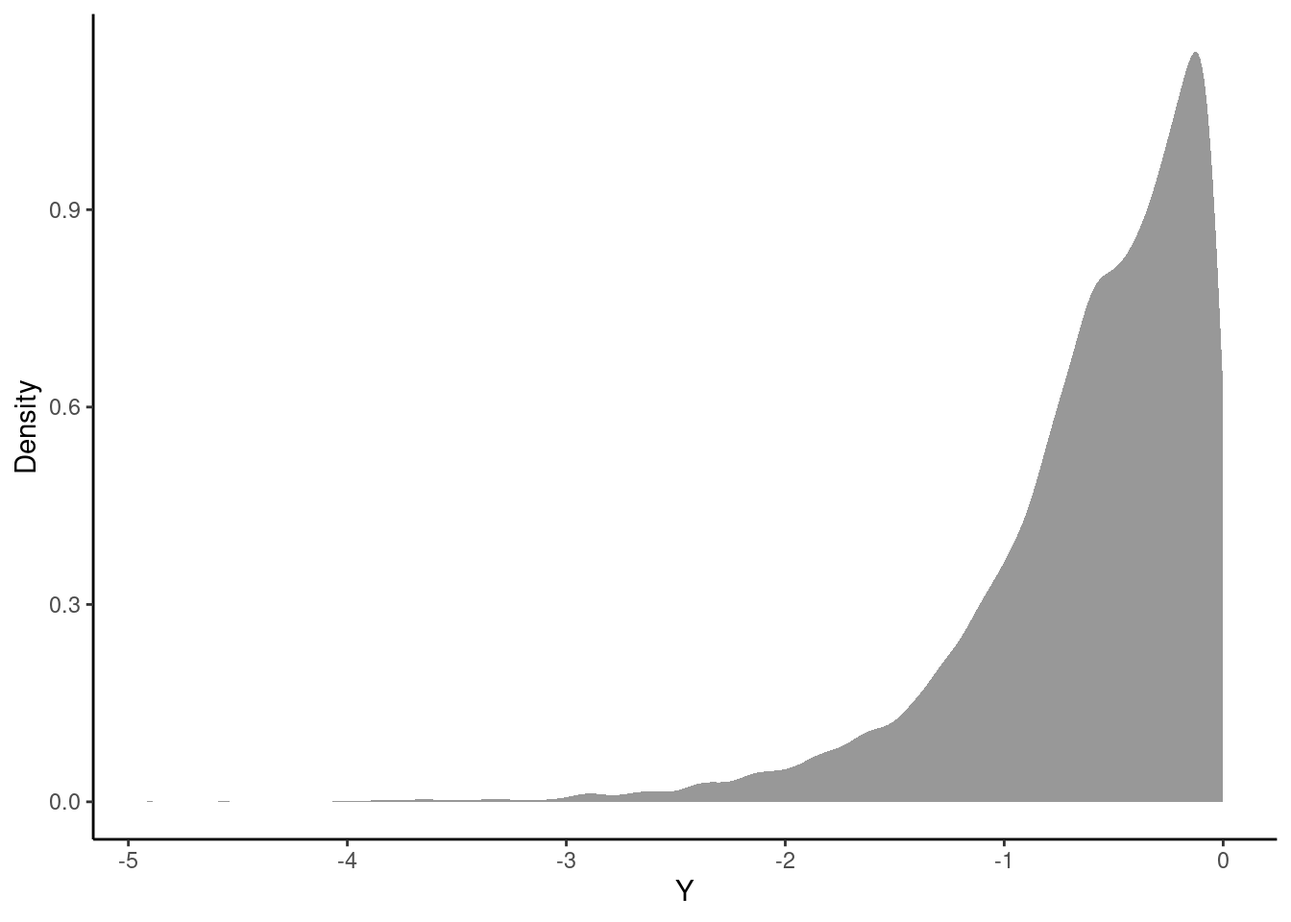
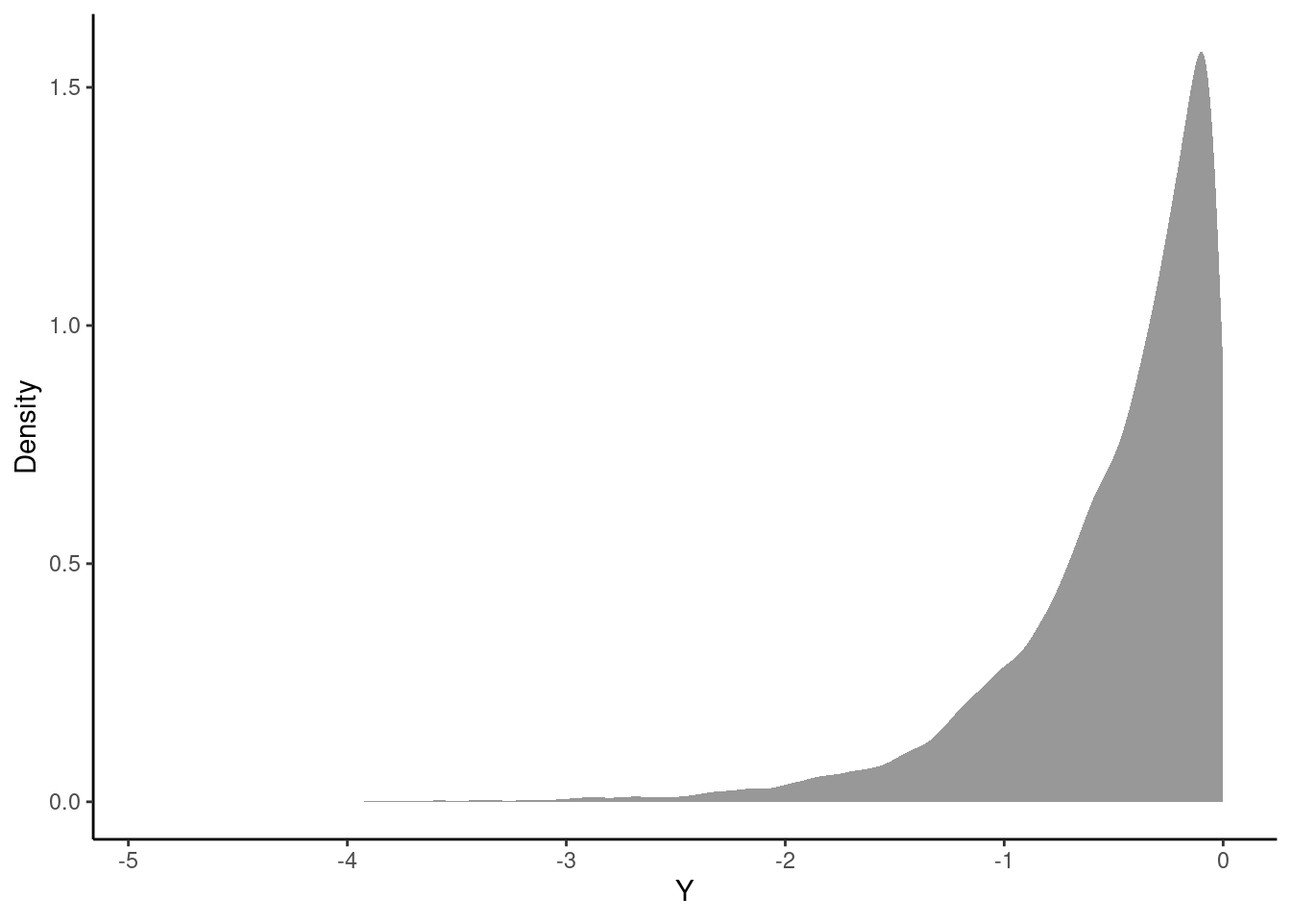
Built book.

diff --git a/docs/Continuous-Random-Variables.html b/docs/Continuous-Random-Variables.html
@@ -645,27 +645,25 @@ Follow the signs
 <span id="cb9-2"><a href="#cb9-2" aria-hidden="true" tabindex="-1"></a></span>
 <span id="cb9-3"><a href="#cb9-3" aria-hidden="true" tabindex="-1"></a>num_sim <span class="ot">&lt;-</span> <span class="dv">10000</span></span>
 <span id="cb9-4"><a href="#cb9-4" aria-hidden="true" tabindex="-1"></a></span>
-<span id="cb9-5"><a href="#cb9-5" aria-hidden="true" tabindex="-1"></a><span class="co"># generate a large number of candidate points </span></span>
-<span id="cb9-6"><a href="#cb9-6" aria-hidden="true" tabindex="-1"></a><span class="co">#   and uniform random numbers for acceptance</span></span>
-<span id="cb9-7"><a href="#cb9-7" aria-hidden="true" tabindex="-1"></a><span class="co"># generate more points than needed (10000*2) to ensure </span></span>
-<span id="cb9-8"><a href="#cb9-8" aria-hidden="true" tabindex="-1"></a><span class="co">#   enough accepted samples</span></span>
-<span id="cb9-9"><a href="#cb9-9" aria-hidden="true" tabindex="-1"></a><span class="co"># We select a value on the range for x and then</span></span>
-<span id="cb9-10"><a href="#cb9-10" aria-hidden="true" tabindex="-1"></a><span class="co"># select another value from 0 to the max of the</span></span>
-<span id="cb9-11"><a href="#cb9-11" aria-hidden="true" tabindex="-1"></a><span class="co"># pdf </span></span>
-<span id="cb9-12"><a href="#cb9-12" aria-hidden="true" tabindex="-1"></a>candidates <span class="ot">&lt;-</span> <span class="fu">runif</span>(num_sim<span class="sc">*</span><span class="dv">2</span>)</span>
-<span id="cb9-13"><a href="#cb9-13" aria-hidden="true" tabindex="-1"></a>u <span class="ot">&lt;-</span> <span class="fu">runif</span>(num_sim<span class="sc">*</span><span class="dv">2</span>,<span class="at">max=</span><span class="dv">2</span>)</span>
-<span id="cb9-14"><a href="#cb9-14" aria-hidden="true" tabindex="-1"></a></span>
-<span id="cb9-15"><a href="#cb9-15" aria-hidden="true" tabindex="-1"></a><span class="co"># create a tibble for candidates and acceptance probabilities</span></span>
-<span id="cb9-16"><a href="#cb9-16" aria-hidden="true" tabindex="-1"></a>df <span class="ot">&lt;-</span> <span class="fu">tibble</span>(<span class="at">candidate =</span> candidates, <span class="at">u =</span> u)</span>
-<span id="cb9-17"><a href="#cb9-17" aria-hidden="true" tabindex="-1"></a></span>
-<span id="cb9-18"><a href="#cb9-18" aria-hidden="true" tabindex="-1"></a><span class="co"># filter out accepted samples based on the acceptance criterion</span></span>
-<span id="cb9-19"><a href="#cb9-19" aria-hidden="true" tabindex="-1"></a>accepted_samples <span class="ot">&lt;-</span> df <span class="sc">%&gt;%</span> </span>
-<span id="cb9-20"><a href="#cb9-20" aria-hidden="true" tabindex="-1"></a>  <span class="fu">filter</span>(<span class="dv">2</span><span class="sc">*</span>candidate <span class="sc">&gt;=</span> u) <span class="sc">%&gt;%</span> </span>
-<span id="cb9-21"><a href="#cb9-21" aria-hidden="true" tabindex="-1"></a>  <span class="fu">slice_head</span>(<span class="at">n =</span> num_sim) <span class="sc">%&gt;%</span>   <span class="co"># ensure exactly n samples </span></span>
-<span id="cb9-22"><a href="#cb9-22" aria-hidden="true" tabindex="-1"></a>  <span class="fu">pull</span>(candidate)         <span class="co"># use only the accepted candidate values</span></span>
-<span id="cb9-23"><a href="#cb9-23" aria-hidden="true" tabindex="-1"></a></span>
-<span id="cb9-24"><a href="#cb9-24" aria-hidden="true" tabindex="-1"></a><span class="co"># Create a tibble for the accepted samples</span></span>
-<span id="cb9-25"><a href="#cb9-25" aria-hidden="true" tabindex="-1"></a>accepted <span class="ot">&lt;-</span> <span class="fu">tibble</span>(<span class="at">X =</span> accepted_samples)</span></code><button title="Copy to Clipboard" class="code-copy-button"><i class="bi"></i></button></pre></div>
+<span id="cb9-5"><a href="#cb9-5" aria-hidden="true" tabindex="-1"></a><span class="co"># select a candidate value between 0 and 1 for x</span></span>
+<span id="cb9-6"><a href="#cb9-6" aria-hidden="true" tabindex="-1"></a><span class="co"># then, select another value from 0 to the max of the pdf</span></span>
+<span id="cb9-7"><a href="#cb9-7" aria-hidden="true" tabindex="-1"></a><span class="co">#   This is our acceptance value</span></span>
+<span id="cb9-8"><a href="#cb9-8" aria-hidden="true" tabindex="-1"></a><span class="co"># generate more points than needed (10000*2) to ensure </span></span>
+<span id="cb9-9"><a href="#cb9-9" aria-hidden="true" tabindex="-1"></a><span class="co">#   enough accepted samples</span></span>
+<span id="cb9-10"><a href="#cb9-10" aria-hidden="true" tabindex="-1"></a>candidates <span class="ot">&lt;-</span> <span class="fu">runif</span>(num_sim<span class="sc">*</span><span class="dv">2</span>)</span>
+<span id="cb9-11"><a href="#cb9-11" aria-hidden="true" tabindex="-1"></a>u <span class="ot">&lt;-</span> <span class="fu">runif</span>(num_sim<span class="sc">*</span><span class="dv">2</span>, <span class="at">max =</span> <span class="dv">2</span>)</span>
+<span id="cb9-12"><a href="#cb9-12" aria-hidden="true" tabindex="-1"></a></span>
+<span id="cb9-13"><a href="#cb9-13" aria-hidden="true" tabindex="-1"></a><span class="co"># create a tibble for candidates and acceptance probabilities</span></span>
+<span id="cb9-14"><a href="#cb9-14" aria-hidden="true" tabindex="-1"></a>df <span class="ot">&lt;-</span> <span class="fu">tibble</span>(<span class="at">candidate =</span> candidates, <span class="at">u =</span> u)</span>
+<span id="cb9-15"><a href="#cb9-15" aria-hidden="true" tabindex="-1"></a></span>
+<span id="cb9-16"><a href="#cb9-16" aria-hidden="true" tabindex="-1"></a><span class="co"># filter out accepted samples based on the acceptance criterion</span></span>
+<span id="cb9-17"><a href="#cb9-17" aria-hidden="true" tabindex="-1"></a>accepted_samples <span class="ot">&lt;-</span> df <span class="sc">%&gt;%</span> </span>
+<span id="cb9-18"><a href="#cb9-18" aria-hidden="true" tabindex="-1"></a>  <span class="fu">filter</span>(u <span class="sc">&lt;=</span> <span class="dv">2</span><span class="sc">*</span>candidate) <span class="sc">%&gt;%</span> </span>
+<span id="cb9-19"><a href="#cb9-19" aria-hidden="true" tabindex="-1"></a>  <span class="fu">slice_head</span>(<span class="at">n =</span> num_sim) <span class="sc">%&gt;%</span>   <span class="co"># ensure exactly n samples </span></span>
+<span id="cb9-20"><a href="#cb9-20" aria-hidden="true" tabindex="-1"></a>  <span class="fu">pull</span>(candidate)         <span class="co"># use only the accepted candidate values</span></span>
+<span id="cb9-21"><a href="#cb9-21" aria-hidden="true" tabindex="-1"></a></span>
+<span id="cb9-22"><a href="#cb9-22" aria-hidden="true" tabindex="-1"></a><span class="co"># Create a tibble for the accepted samples</span></span>
+<span id="cb9-23"><a href="#cb9-23" aria-hidden="true" tabindex="-1"></a>accepted <span class="ot">&lt;-</span> <span class="fu">tibble</span>(<span class="at">X =</span> accepted_samples)</span></code><button title="Copy to Clipboard" class="code-copy-button"><i class="bi"></i></button></pre></div>
 </div>
 <p>Now, we can plot the estimated pdf.</p>
 <div class="cell">
@@ -693,6 +691,7 @@ Follow the signs
 1 0.249 0.745 0.542</code></pre>
 </div>
 </div>
+<p>The first probability is <span class="math inline">\(P(X &lt; 0.5)\)</span>, the second is <span class="math inline">\(P(X &gt; 0.5)\)</span>, and the third is <span class="math inline">\(P(0.1\leq X &lt; 0.75)\)</span>. All three simulated probabilities are very close to those found mathematically or with integration in <code>R</code> previously.</p>
 <p>The median of <span class="math inline">\(X\)</span> is easily found by calculating the median of our simulated values.</p>
 <div class="cell">
 <div class="sourceCode cell-code" id="cb13"><pre class="sourceCode r code-with-copy"><code class="sourceCode r"><span id="cb13-1"><a href="#cb13-1" aria-hidden="true" tabindex="-1"></a><span class="fu">median</span>(<span class="sc">~</span>X, <span class="at">data =</span> accepted)</span></code><button title="Copy to Clipboard" class="code-copy-button"><i class="bi"></i></button></pre></div>
@@ -700,6 +699,7 @@ Follow the signs
 <pre><code>[1] 0.7102987</code></pre>
 </div>
 </div>
+<p>This is also very close to the value of 0.707 that can be found mathematically.<a href="#fn3" class="footnote-ref" id="fnref3" role="doc-noteref"><sup>3</sup></a></p>
 </section>
 </section>
 <section id="moments" class="level2" data-number="11.3">
@@ -773,6 +773,14 @@ Consider the random variable <span class="math inline">\(X\)</span> from above. 
 <li><p>Find the random variable <span class="math inline">\(X\)</span> from <span class="math inline">\(F_{X}^{-1}(U)\)</span>.</p></li>
 </ol>
 <a href="#fnref2" class="footnote-back" role="doc-backlink">↩</a></li>
+<li id="fn3"><p>The median of <span class="math inline">\(X\)</span> is the value <span class="math inline">\(x\)</span> such that <span class="math inline">\(P(X\leq x) = 0.5\)</span>.</p>
+<p><span class="math display">\[
+\int_0^t 2xdx = 0.5
+\]</span></p>
+<p><span class="math display">\[
+x^2 \big|_0^t = 0.5
+\]</span></p>
+<p>So, we simply solve <span class="math inline">\(t^2 = 0.5\)</span> for <span class="math inline">\(t\)</span> and find the median of is <span class="math inline">\(\sqrt{0.5} = 0.707\)</span>.<a href="#fnref3" class="footnote-back" role="doc-backlink">↩</a></p></li>
 </ol>
 </section>
 

diff --git a/docs/Transformations.html b/docs/Transformations.html
@@ -556,21 +556,22 @@ f_Y(y)=\left\{\begin{array}{ll} 0.35, &amp; y=0 \\
 <span id="cb1-2"><a href="#cb1-2" aria-hidden="true" tabindex="-1"></a></span>
 <span id="cb1-3"><a href="#cb1-3" aria-hidden="true" tabindex="-1"></a>num_sim <span class="ot">&lt;-</span> <span class="dv">10000</span></span>
 <span id="cb1-4"><a href="#cb1-4" aria-hidden="true" tabindex="-1"></a></span>
-<span id="cb1-5"><a href="#cb1-5" aria-hidden="true" tabindex="-1"></a><span class="co"># generate a large number of candidate points </span></span>
-<span id="cb1-6"><a href="#cb1-6" aria-hidden="true" tabindex="-1"></a><span class="co">#   and uniform random numbers for acceptance</span></span>
-<span id="cb1-7"><a href="#cb1-7" aria-hidden="true" tabindex="-1"></a><span class="co"># generate more points than needed (10000*2) to ensure </span></span>
-<span id="cb1-8"><a href="#cb1-8" aria-hidden="true" tabindex="-1"></a><span class="co">#   enough accepted samples</span></span>
-<span id="cb1-9"><a href="#cb1-9" aria-hidden="true" tabindex="-1"></a>candidates <span class="ot">&lt;-</span> <span class="fu">runif</span>(num_sim<span class="sc">*</span><span class="dv">2</span>, <span class="dv">0</span>, <span class="dv">1</span>)</span>
-<span id="cb1-10"><a href="#cb1-10" aria-hidden="true" tabindex="-1"></a>u <span class="ot">&lt;-</span> <span class="fu">runif</span>(num_sim<span class="sc">*</span><span class="dv">2</span>, <span class="dv">0</span>, <span class="dv">1</span>)</span>
-<span id="cb1-11"><a href="#cb1-11" aria-hidden="true" tabindex="-1"></a></span>
-<span id="cb1-12"><a href="#cb1-12" aria-hidden="true" tabindex="-1"></a><span class="co"># create a tibble for candidates and acceptance probabilities</span></span>
-<span id="cb1-13"><a href="#cb1-13" aria-hidden="true" tabindex="-1"></a>df <span class="ot">&lt;-</span> <span class="fu">tibble</span>(<span class="at">candidate =</span> candidates, <span class="at">u =</span> u)</span>
-<span id="cb1-14"><a href="#cb1-14" aria-hidden="true" tabindex="-1"></a></span>
-<span id="cb1-15"><a href="#cb1-15" aria-hidden="true" tabindex="-1"></a><span class="co"># filter out accepted samples based on the acceptance criterion</span></span>
-<span id="cb1-16"><a href="#cb1-16" aria-hidden="true" tabindex="-1"></a>accepted_samples <span class="ot">&lt;-</span> df <span class="sc">%&gt;%</span> </span>
-<span id="cb1-17"><a href="#cb1-17" aria-hidden="true" tabindex="-1"></a>  <span class="fu">filter</span>(u <span class="sc">&lt;=</span> <span class="dv">2</span><span class="sc">*</span>candidate) <span class="sc">%&gt;%</span> </span>
-<span id="cb1-18"><a href="#cb1-18" aria-hidden="true" tabindex="-1"></a>  <span class="fu">slice_head</span>(<span class="at">n =</span> num_sim) <span class="sc">%&gt;%</span>   <span class="co"># ensure exactly n samples </span></span>
-<span id="cb1-19"><a href="#cb1-19" aria-hidden="true" tabindex="-1"></a>  <span class="fu">pull</span>(candidate)         <span class="co"># use only the accepted candidate values </span></span></code><button title="Copy to Clipboard" class="code-copy-button"><i class="bi"></i></button></pre></div>
+<span id="cb1-5"><a href="#cb1-5" aria-hidden="true" tabindex="-1"></a><span class="co"># select a candidate value between 0 and 1 for x</span></span>
+<span id="cb1-6"><a href="#cb1-6" aria-hidden="true" tabindex="-1"></a><span class="co"># then, select another value from 0 to the max of the pdf</span></span>
+<span id="cb1-7"><a href="#cb1-7" aria-hidden="true" tabindex="-1"></a><span class="co">#   This is our acceptance value</span></span>
+<span id="cb1-8"><a href="#cb1-8" aria-hidden="true" tabindex="-1"></a><span class="co"># generate more points than needed (10000*2) to ensure </span></span>
+<span id="cb1-9"><a href="#cb1-9" aria-hidden="true" tabindex="-1"></a><span class="co">#   enough accepted samples</span></span>
+<span id="cb1-10"><a href="#cb1-10" aria-hidden="true" tabindex="-1"></a>candidates <span class="ot">&lt;-</span> <span class="fu">runif</span>(num_sim<span class="sc">*</span><span class="dv">2</span>, <span class="dv">0</span>, <span class="dv">1</span>)</span>
+<span id="cb1-11"><a href="#cb1-11" aria-hidden="true" tabindex="-1"></a>u <span class="ot">&lt;-</span> <span class="fu">runif</span>(num_sim<span class="sc">*</span><span class="dv">2</span>, <span class="dv">0</span>, <span class="dv">2</span>)</span>
+<span id="cb1-12"><a href="#cb1-12" aria-hidden="true" tabindex="-1"></a></span>
+<span id="cb1-13"><a href="#cb1-13" aria-hidden="true" tabindex="-1"></a><span class="co"># create a tibble for candidates and acceptance probabilities</span></span>
+<span id="cb1-14"><a href="#cb1-14" aria-hidden="true" tabindex="-1"></a>df <span class="ot">&lt;-</span> <span class="fu">tibble</span>(<span class="at">candidate =</span> candidates, <span class="at">u =</span> u)</span>
+<span id="cb1-15"><a href="#cb1-15" aria-hidden="true" tabindex="-1"></a></span>
+<span id="cb1-16"><a href="#cb1-16" aria-hidden="true" tabindex="-1"></a><span class="co"># filter out accepted samples based on the acceptance criterion</span></span>
+<span id="cb1-17"><a href="#cb1-17" aria-hidden="true" tabindex="-1"></a>accepted_samples <span class="ot">&lt;-</span> df <span class="sc">%&gt;%</span> </span>
+<span id="cb1-18"><a href="#cb1-18" aria-hidden="true" tabindex="-1"></a>  <span class="fu">filter</span>(u <span class="sc">&lt;=</span> <span class="dv">2</span><span class="sc">*</span>candidate) <span class="sc">%&gt;%</span> </span>
+<span id="cb1-19"><a href="#cb1-19" aria-hidden="true" tabindex="-1"></a>  <span class="fu">slice_head</span>(<span class="at">n =</span> num_sim) <span class="sc">%&gt;%</span>   <span class="co"># ensure exactly n samples </span></span>
+<span id="cb1-20"><a href="#cb1-20" aria-hidden="true" tabindex="-1"></a>  <span class="fu">pull</span>(candidate)         <span class="co"># use only the accepted candidate values </span></span></code><button title="Copy to Clipboard" class="code-copy-button"><i class="bi"></i></button></pre></div>
 </div>
 <p>Now, we’ll transform the values of <span class="math inline">\(X\)</span> to <span class="math inline">\(Y\)</span> using <span class="math inline">\(Y = \ln(X)\)</span>.</p>
 <div class="cell">
@@ -581,9 +582,9 @@ f_Y(y)=\left\{\begin{array}{ll} 0.35, &amp; y=0 \\
 <div class="sourceCode cell-code" id="cb3"><pre class="sourceCode r code-with-copy"><code class="sourceCode r"><span id="cb3-1"><a href="#cb3-1" aria-hidden="true" tabindex="-1"></a><span class="fu">inspect</span>(Y_vals)</span></code><button title="Copy to Clipboard" class="code-copy-button"><i class="bi"></i></button></pre></div>
 <div class="cell-output cell-output-stdout">
 <pre><code># A tibble: 1 × 10
-  class     min     Q1 median     Q3       max   mean    sd     n missing
-* &lt;chr&gt;   &lt;dbl&gt;  &lt;dbl&gt;  &lt;dbl&gt;  &lt;dbl&gt;     &lt;dbl&gt;  &lt;dbl&gt; &lt;dbl&gt; &lt;int&gt;   &lt;int&gt;
-1 numeric -4.91 -0.840 -0.482 -0.210 -0.000124 -0.611 0.541 10000       0</code></pre>
+  class     min     Q1 median     Q3        max   mean    sd     n missing
+* &lt;chr&gt;   &lt;dbl&gt;  &lt;dbl&gt;  &lt;dbl&gt;  &lt;dbl&gt;      &lt;dbl&gt;  &lt;dbl&gt; &lt;dbl&gt; &lt;int&gt;   &lt;int&gt;
+1 numeric -4.91 -0.696 -0.347 -0.142 -0.0000466 -0.501 0.504 10000       0</code></pre>
 </div>
 </div>
 <p>Finally, we can plot the approximate distribution. <a href="#fig-sim-transform1" class="quarto-xref">Figure&nbsp;<span>16.1</span></a> is the density plot of the transformed random variable <span class="math inline">\(Y\)</span> from the simulation. We can see that <span class="math inline">\(-\infty &lt; y\leq 0\)</span> and the density is tight near zero but skewed to the left.</p>

diff --git a/docs/Discrete-Random-Variables.html b/docs/Discrete-Random-Variables.html
@@ -549,7 +549,7 @@ S_X=\{0,1,2,3\}
 <p>Let <span class="math inline">\(X\)</span> be a discrete random variable. The probability mass function (pmf) of <span class="math inline">\(X\)</span>, given by <span class="math inline">\(f_X(x)\)</span>, is a function that assigns probability to each possible outcome of <span class="math inline">\(X\)</span>. <span class="math display">\[
 f_X(x)=\mbox{P}(X=x)
 \]</span></p>
-<p>Note that the pmf is a <em>function</em>. Functions have input and output. The input of a pmf is any real number. The output of a pmf is the probability that the random variable takes the inputted value. The pmf must follow the axioms of probability described in the <a href="#sec-PROBRULES" class="quarto-xref"><span class="quarto-unresolved-ref">sec-PROBRULES</span></a>. Primarily,</p>
+<p>Note that the pmf is a <em>function</em>. Functions have input and output. The input of a pmf is any real number. The output of a pmf is the probability that the random variable takes the inputted value. The pmf must follow the axioms of probability described in the <a href="Probability-Basics.html" class="quarto-xref"><span>Chapter 8</span></a>. Primarily,</p>
 <ol type="1">
 <li><p>For all <span class="math inline">\(x \in \mathbb{R}\)</span>, <span class="math inline">\(0 \leq f_X(x) \leq 1\)</span>. That is, for all values of <span class="math inline">\(x\)</span>, the outcome of <span class="math inline">\(f_X(x)\)</span> is between 0 and 1.</p></li>
 <li><p><span class="math inline">\(\sum_x f_X(x) = 1\)</span>, where the <span class="math inline">\(x\)</span> in the index of the sum simply denotes that we are summing across the entire sample space of <span class="math inline">\(X\)</span>. In words, all the probabilities must sum to one.</p></li>
@@ -568,7 +568,7 @@ f_X(x)=\left\{ \renewcommand{\arraystretch}{1.4} \begin{array}{ll} \frac{1}{8}, 
 0, &amp; \mbox{otherwise} \end{array} \right .
 \]</span></p>
 <p>Note that this function specifies the probability that <span class="math inline">\(X\)</span> takes any of the four values in the sample space (0, 1, 2, and 3). It also specifies that the probability <span class="math inline">\(X\)</span> takes any other value is 0.</p>
-<p>Graphically, the pmf is not terribly interesting. The pmf is 0 at all values of <span class="math inline">\(X\)</span> except for 0, 1, 2 and 3, <a href="#fig-pmf101" class="quarto-xref">Figure&nbsp;<span class="quarto-unresolved-ref">fig-pmf101</span></a> .</p>
+<p>Graphically, the pmf is not terribly interesting. The pmf is 0 at all values of <span class="math inline">\(X\)</span> except for 0, 1, 2 and 3, <a href="#fig-pmf101" class="quarto-xref">Figure&nbsp;<span>10.1</span></a> .</p>
 <div class="cell">
 <div class="cell-output-display">
 <div id="fig-pmf101" class="quarto-float quarto-figure quarto-figure-center anchored">
@@ -796,7 +796,7 @@ F_X(x)=\mbox{P}(X\leq x)=\left\{\renewcommand{\arraystretch}{1.4} \begin{array}{
 \frac{7}{8}, &amp; 2\leq x &lt; 3 \\
 1, &amp; x\geq 3 \end{array}\right .
 \]</span></p>
-<p>Visually, the cdf of a discrete random variable has a stair-step appearance. In this example, the cdf takes a value 0 up until <span class="math inline">\(X=0\)</span>, at which point the cdf increases to 1/8. It stays at this value until <span class="math inline">\(X=1\)</span>, and so on. At and beyond <span class="math inline">\(X=3\)</span>, the cdf is equal to 1, <a href="#fig-cdf101" class="quarto-xref">Figure&nbsp;<span class="quarto-unresolved-ref">fig-cdf101</span></a> .</p>
+<p>Visually, the cdf of a discrete random variable has a stair-step appearance. In this example, the cdf takes a value 0 up until <span class="math inline">\(X=0\)</span>, at which point the cdf increases to 1/8. It stays at this value until <span class="math inline">\(X=1\)</span>, and so on. At and beyond <span class="math inline">\(X=3\)</span>, the cdf is equal to 1, <span class="quarto-unresolved-ref">?fig-cdf101</span> .</p>
 <div class="quarto-figure quarto-figure-center">
 <figure class="figure">
 <p><img src="figures/drv-cdf101.PNG" class="img-fluid figure-img"></p>

diff --git a/docs/Conditional-Probability.html b/docs/Conditional-Probability.html
@@ -266,7 +266,7 @@ window.Quarto = {
           <li class="sidebar-item">
   <div class="sidebar-item-container"> 
   <a href="./Discrete-Random-Variables.html" class="sidebar-item-text sidebar-link">
- <span class="menu-text"><span class="chapter-number">10</span>&nbsp; <span class="chapter-title">Random Variables</span></span></a>
+ <span class="menu-text"><span class="chapter-number">10</span>&nbsp; <span class="chapter-title">Discrete Random Variables</span></span></a>
   </div>
 </li>
           <li class="sidebar-item">
@@ -1040,8 +1040,8 @@ window.document.addEventListener("DOMContentLoaded", function (event) {
       </a>          
   </div>
   <div class="nav-page nav-page-next">
-      <a href="./Discrete-Random-Variables.html" class="pagination-link" aria-label="Random Variables">
-        <span class="nav-page-text"><span class="chapter-number">10</span>&nbsp; <span class="chapter-title">Random Variables</span></span> <i class="bi bi-arrow-right-short"></i>
+      <a href="./Discrete-Random-Variables.html" class="pagination-link" aria-label="Discrete Random Variables">
+        <span class="nav-page-text"><span class="chapter-number">10</span>&nbsp; <span class="chapter-title">Discrete Random Variables</span></span> <i class="bi bi-arrow-right-short"></i>
       </a>
   </div>
 </nav>

diff --git a/docs/index.html b/docs/index.html
@@ -9,7 +9,7 @@
 <meta name="author" content="Bradley Warner">
 <meta name="author" content="Brianna Hitt">
 <meta name="author" content="Ken Horton">
-<meta name="dcterms.date" content="2024-08-05">
+<meta name="dcterms.date" content="2024-08-06">
 
 <title>Computational Probability and Statistics</title>
 <style>
@@ -449,7 +449,7 @@ div.csl-indent {
     <div>
     <div class="quarto-title-meta-heading">Published</div>
     <div class="quarto-title-meta-contents">
-      <p class="date">August 5, 2024</p>
+      <p class="date">August 6, 2024</p>
     </div>
   </div>
   
@@ -516,7 +516,7 @@ div.csl-indent {
 <section id="file-creation-information" class="level2">
 <h2 class="anchored" data-anchor-id="file-creation-information">File Creation Information</h2>
 <ul>
-<li>File creation date: 2024-08-05</li>
+<li>File creation date: 2024-08-06</li>
 <li>R version 4.4.1 (2024-06-14)</li>
 </ul>
 </section>

diff --git a/docs/Studies.html b/docs/Studies.html
@@ -203,7 +203,7 @@ ul.task-list li input[type="checkbox"] {
           <li class="sidebar-item">
   <div class="sidebar-item-container"> 
   <a href="./Discrete-Random-Variables.html" class="sidebar-item-text sidebar-link">
- <span class="menu-text"><span class="chapter-number">10</span>&nbsp; <span class="chapter-title">Random Variables</span></span></a>
+ <span class="menu-text"><span class="chapter-number">10</span>&nbsp; <span class="chapter-title">Discrete Random Variables</span></span></a>
   </div>
 </li>
           <li class="sidebar-item">

diff --git a/docs/00-Objectives.html b/docs/00-Objectives.html
@@ -232,7 +232,7 @@ window.Quarto = {
           <li class="sidebar-item">
   <div class="sidebar-item-container"> 
   <a href="./Discrete-Random-Variables.html" class="sidebar-item-text sidebar-link">
- <span class="menu-text"><span class="chapter-number">10</span>&nbsp; <span class="chapter-title">Random Variables</span></span></a>
+ <span class="menu-text"><span class="chapter-number">10</span>&nbsp; <span class="chapter-title">Discrete Random Variables</span></span></a>
   </div>
 </li>
           <li class="sidebar-item">

diff --git a/docs/Additional-Hypothesis-Tests.html b/docs/Additional-Hypothesis-Tests.html
@@ -266,7 +266,7 @@ window.Quarto = {
           <li class="sidebar-item">
   <div class="sidebar-item-container"> 
   <a href="./Discrete-Random-Variables.html" class="sidebar-item-text sidebar-link">
- <span class="menu-text"><span class="chapter-number">10</span>&nbsp; <span class="chapter-title">Random Variables</span></span></a>
+ <span class="menu-text"><span class="chapter-number">10</span>&nbsp; <span class="chapter-title">Discrete Random Variables</span></span></a>
   </div>
 </li>
           <li class="sidebar-item">

diff --git a/docs/Analysis-of-Variance.html b/docs/Analysis-of-Variance.html
@@ -266,7 +266,7 @@ window.Quarto = {
           <li class="sidebar-item">
   <div class="sidebar-item-container"> 
   <a href="./Discrete-Random-Variables.html" class="sidebar-item-text sidebar-link">
- <span class="menu-text"><span class="chapter-number">10</span>&nbsp; <span class="chapter-title">Random Variables</span></span></a>
+ <span class="menu-text"><span class="chapter-number">10</span>&nbsp; <span class="chapter-title">Discrete Random Variables</span></span></a>
   </div>
 </li>
           <li class="sidebar-item">

diff --git a/docs/Bootstrap.html b/docs/Bootstrap.html
@@ -266,7 +266,7 @@ window.Quarto = {
           <li class="sidebar-item">
   <div class="sidebar-item-container"> 
   <a href="./Discrete-Random-Variables.html" class="sidebar-item-text sidebar-link">
- <span class="menu-text"><span class="chapter-number">10</span>&nbsp; <span class="chapter-title">Random Variables</span></span></a>
+ <span class="menu-text"><span class="chapter-number">10</span>&nbsp; <span class="chapter-title">Discrete Random Variables</span></span></a>
   </div>
 </li>
           <li class="sidebar-item">

diff --git a/docs/Categorical-Data.html b/docs/Categorical-Data.html
@@ -268,7 +268,7 @@ window.Quarto = {
           <li class="sidebar-item">
   <div class="sidebar-item-container"> 
   <a href="./Discrete-Random-Variables.html" class="sidebar-item-text sidebar-link">
- <span class="menu-text"><span class="chapter-number">10</span>&nbsp; <span class="chapter-title">Random Variables</span></span></a>
+ <span class="menu-text"><span class="chapter-number">10</span>&nbsp; <span class="chapter-title">Discrete Random Variables</span></span></a>
   </div>
 </li>
           <li class="sidebar-item">

diff --git a/docs/Central-Limit-Theorem.html b/docs/Central-Limit-Theorem.html
@@ -266,7 +266,7 @@ window.Quarto = {
           <li class="sidebar-item">
   <div class="sidebar-item-container"> 
   <a href="./Discrete-Random-Variables.html" class="sidebar-item-text sidebar-link">
- <span class="menu-text"><span class="chapter-number">10</span>&nbsp; <span class="chapter-title">Random Variables</span></span></a>
+ <span class="menu-text"><span class="chapter-number">10</span>&nbsp; <span class="chapter-title">Discrete Random Variables</span></span></a>
   </div>
 </li>
           <li class="sidebar-item">
